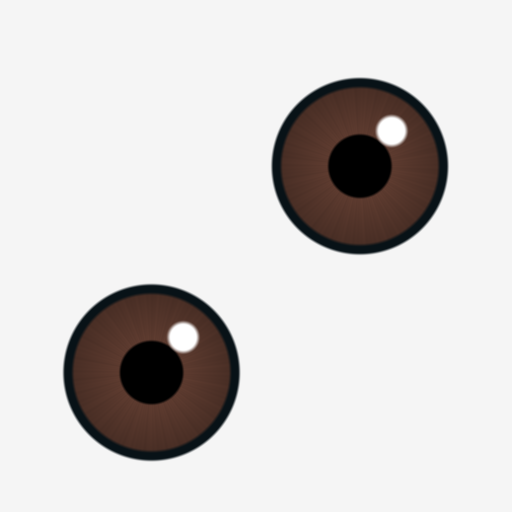
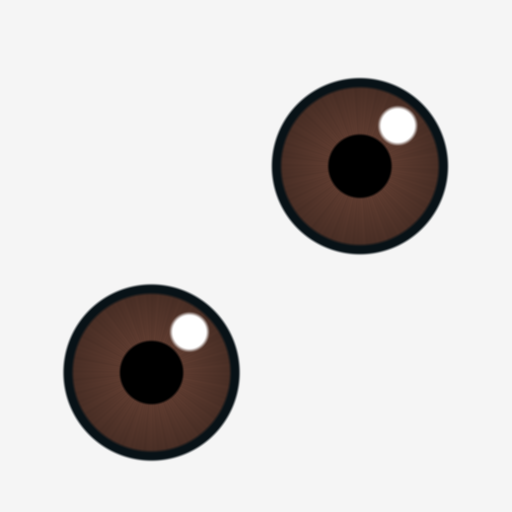
Round 57: a whiter eye with a bigger catchlight, the chin forward, a rounder o, redder old, folds filled further
Round 56: the eye's white grey under the lid's shade and the catchlight small (judge B,
all four), the chin far behind the nose tip in profile (judge A), the o a flat slit
with teeth (both, the same opening kept: Rafa's limit), the old's nose and cheeks too
pale, the old man's eye white all round, the blush near the young woman's mouth.

Changed region(s): [[0.7188, 0.1875, 0.8125, 0.3125], [0.3125, 0.5938, 0.4062, 0.6875]]

diff --git a/tools/parle_style.py b/tools/parle_style.py
@@ -59,7 +59,8 @@ EYE_TALL_LEAST_BY_KIND = {"male": 0.56, "female": 0.56, "male-old": 0.41, "femal
 # How much the eye's own map lights it (emission): the white of the series' eyes is white even in the shade of the brow.
 # Round 30 (2026-11-16): the white of the eye read grey-pink in the orbit's shade; the series' is clean white.
 # Round 38 (two judges, 4.1): the white still "sombra funda em volta" on all four.
-EYE_GLOW = 0.3
+# Round 56, judge B on all four: "esclera branca e limpa, cerca de 70 % menos da sombra cinza da pálpebra sobre o branco".
+EYE_GLOW = 0.5
 SKIN_WARM = 0.012
 # The nose's reach about its tip, in metres; below the tip it is shorter (NOSE_BELOW), so the upper lip stays where it was, and up
 # the bridge longer (NOSE_ABOVE). The middle it grows about stands NOSE_BACK behind the tip, a little above it.
@@ -147,7 +148,7 @@ def warmer(rgb, amount):
 # to its form a point goes.
 SCULPT = {
     "male": {"nose_ball": (0.41, 0.42, 0.33), "nose_share": 0.95, "cheek": 0.55, "cheek_share": 0.66, "chin": 0.5, "lid": 0.1, "ridge": 0.0},
-    "male-old": {"nose_ball": (0.44, 0.46, 0.38), "nose_share": 0.95, "cheek": 0.62, "cheek_share": 0.85, "chin": 0.45, "lid": -0.16, "ridge": 0.0},
+    "male-old": {"nose_ball": (0.44, 0.46, 0.38), "nose_share": 0.95, "cheek": 0.62, "cheek_share": 0.85, "chin": 0.45, "lid": -0.24, "ridge": 0.0},
     "female": {"nose_ball": (0.22, 0.22, 0.19), "nose_share": 0.9, "cheek": 0.54, "cheek_share": 0.72, "chin": 0.36, "lid": -0.02, "ridge": 0.0},
     "female-old": {"nose_ball": (0.32, 0.32, 0.28), "nose_share": 0.9, "cheek": 0.62, "cheek_share": 0.85, "chin": 0.38, "lid": -0.08, "ridge": 0.0},
 }
@@ -156,7 +157,8 @@ SCULPT = {
 # Round 35: the cheek a high round mass ("maçã alta"), its ball higher under the eye (0.14, 0.58, -0.48), and a brow ridge forward
 # (`ridge` in SCULPT) and lighter smoothing: round 36 fell from 5.5 to 4.5, so back to round 34's.
 CHEEK_AT = (0.12, 0.62, -0.62)
-CHIN_AT = (0.0, 0.55, -1.25)
+# Round 55: "boca e queixo muito atrás da ponta do nariz" in profile, the men most (judge A, "3 a 4 mm mais à frente"): 3 mm forward.
+CHIN_AT = (0.0, 0.5, -1.25)
 # How far about each form its pull reaches, in its own radii, and the zone of the nose about the tip, in distances between the eyes.
 REACH = 1.4
 # How much of the way to the chin's ball a point goes (round 25: the young man's chin "recua muito" from the side).
@@ -276,7 +278,8 @@ def orbit_weight(points, tip, eyes):
 # A ring about the lips (SIMPLE_MOUTH_WIDE), from FOLD_IN to FOLD_OUT times their size, in front.
 FOLD_IN = 1.05
 FOLD_OUT = 3.2
-FOLD_ROUNDS = 40
+# Round 56: at 40 the folds still asked "50 % mais suaves" (judge A, the old woman and the young man).
+FOLD_ROUNDS = 70
 
 
 def fold_weight(points, tip, eyes):

diff --git a/tools/parle_paint.py b/tools/parle_paint.py
@@ -31,8 +31,11 @@ BLUSH = (0.86, 0.38, 0.28)
 # Round 30: at a half the blush read as red patches and the skin orange: back to round 29's.
 # Round 48: both judges asked the old woman's and the old man's nose tip and cheeks a quarter redder, as the series' old man.
 # Round 52: both judges asked the nose tip and the cheeks of all four "25 a 30 % mais vermelhos": a seventh more.
-BLUSH_SHARE = {"female": 0.46, "female-old": 0.64, "male": 0.52, "male-old": 0.72}
-CHEEK_SPOT = (0.12, -0.25, -0.72)
+# Round 56: the old's nose tip and cheeks "+25 a 30 % de saturação, como o idoso da série" (judge B).
+BLUSH_SHARE = {"female": 0.46, "female-old": 0.74, "male": 0.52, "male-old": 0.82}
+# Round 56: the young woman's blush reached the mouth and the chin ("tirar as manchas rosadas em volta da boca", judge B): the spot
+# a little higher on the cheek.
+CHEEK_SPOT = (0.12, -0.25, -0.62)
 CHEEK_WIDE = 0.34
 NOSE_SPOT_WIDE = 0.22
 # Round 54: both judges, the tip of the nose "15 a 25 % mais vermelha" on all four.

diff --git a/tools/parle_face.py b/tools/parle_face.py
@@ -299,7 +299,9 @@ SPEECH_OPEN = {
 # The open jaw itself is left alone: with the pucker in it, the lips of both jaws would move with it, and the jaw is how the lower
 # lip is told from the upper one (`parle_polish.fair_face`).
 SPEECH_MIX = {
-    "viseme_O": {"viseme_O": 0.29, "viseme_U": 1.0, "jawOpen": -0.29},
+    # Rounds 44 to 56, both judges: the "o" "fica numa fenda reta com os dentes à mostra, lê-se como e", where it should be a ring
+    # with the lips forward, "sem abrir mais": more of the pucker, the same opening (Rafa's limit, owner 2026-11-16).
+    "viseme_O": {"viseme_O": 0.29, "viseme_U": 1.2, "jawOpen": -0.29},
     "viseme_U": {"viseme_U": 1.11, "jawOpen": -0.23},
     "viseme_CH": {"viseme_CH": 0.67, "viseme_U": 0.82, "jawOpen": -0.18},
     "viseme_aa": {"viseme_aa": 1.0, "viseme_U": 0.4},

diff --git a/tools/eye_texture.py b/tools/eye_texture.py
@@ -79,8 +79,10 @@ PUPIL = np.array((0.0, 0.0, 0.0))
 SCLERA = np.array((0.96, 0.96, 0.96))
 # One small clean catchlight up and to one side of the pupil, as every eye of the series the owner chose has (round 20 of the loop,
 # 2026-11-16): a disc in iris radii, at (across, down) from the iris's middle. The iris drawn flat, with almost none of its fibres.
-CATCHLIGHT = (0.36, -0.4)
-CATCHLIGHT_RADIUS = 0.17
+# Round 56: bigger, and a little further out so it does not cut the pupil's round edge (`tests/test_parle_eye_map.py`).
+CATCHLIGHT = (0.43, -0.46)
+# Round 56, judge B on all four: "brilho 2× maior".
+CATCHLIGHT_RADIUS = 0.21
 FIBRES = 0.04
 
 
